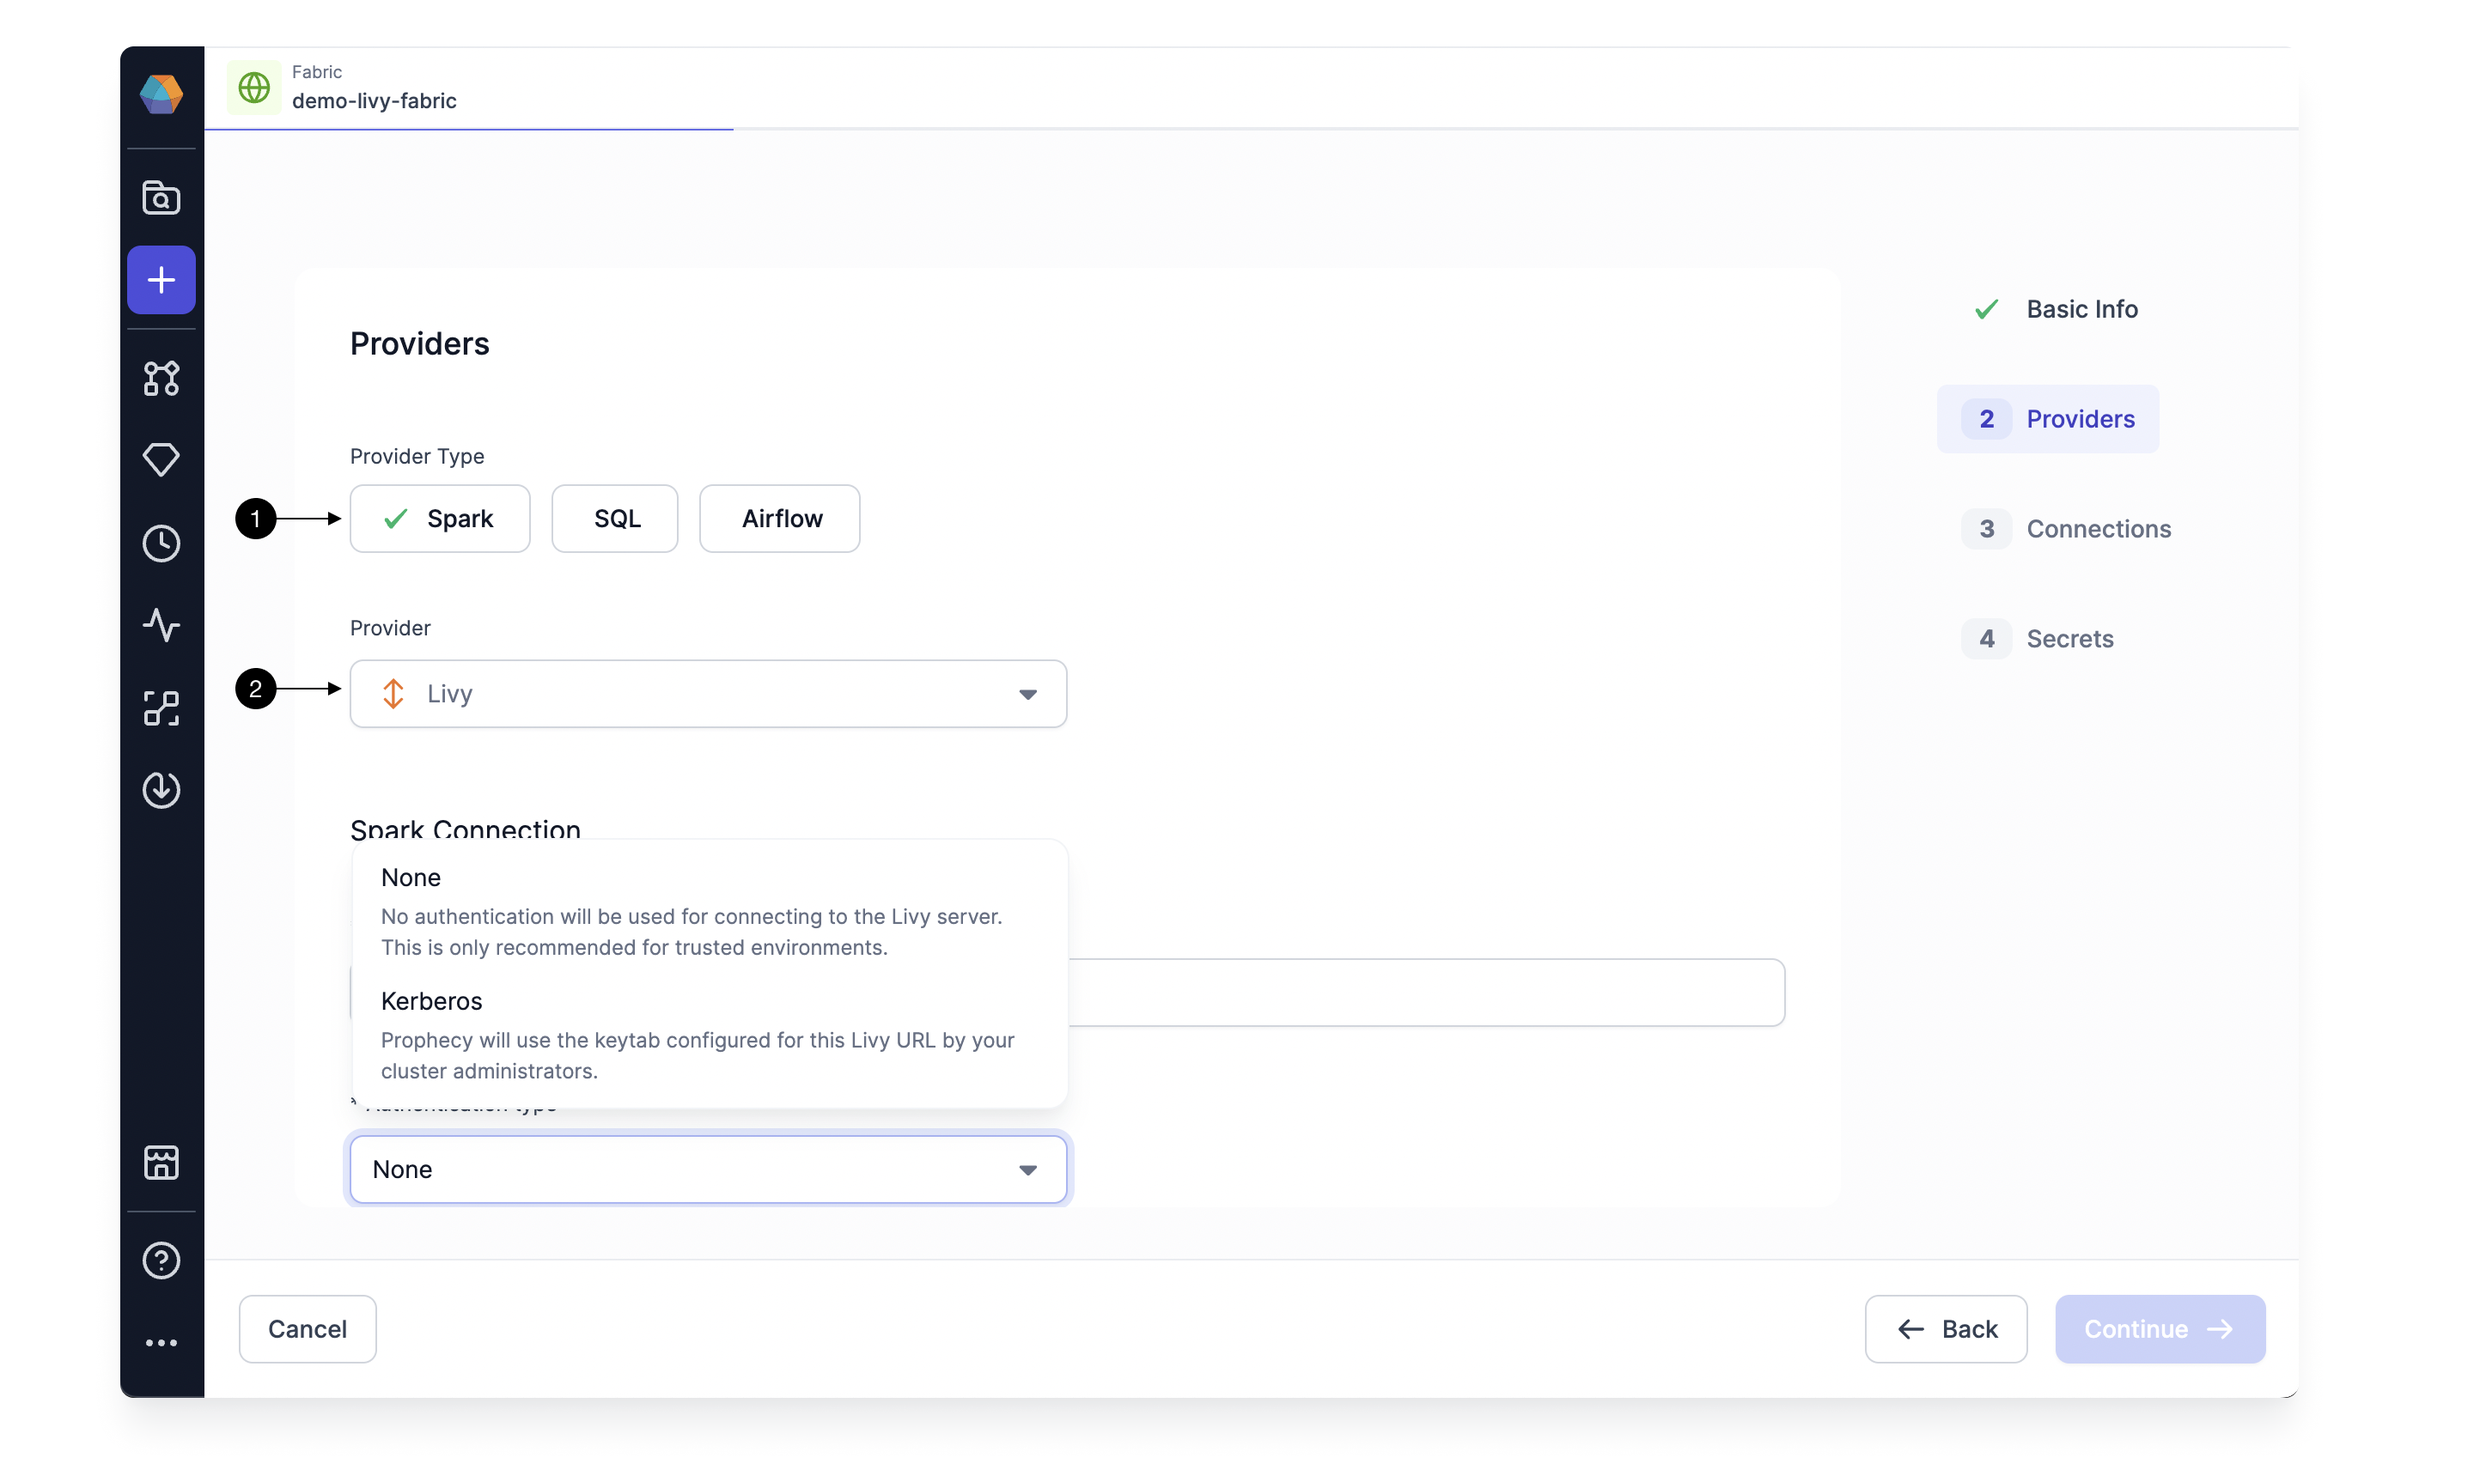
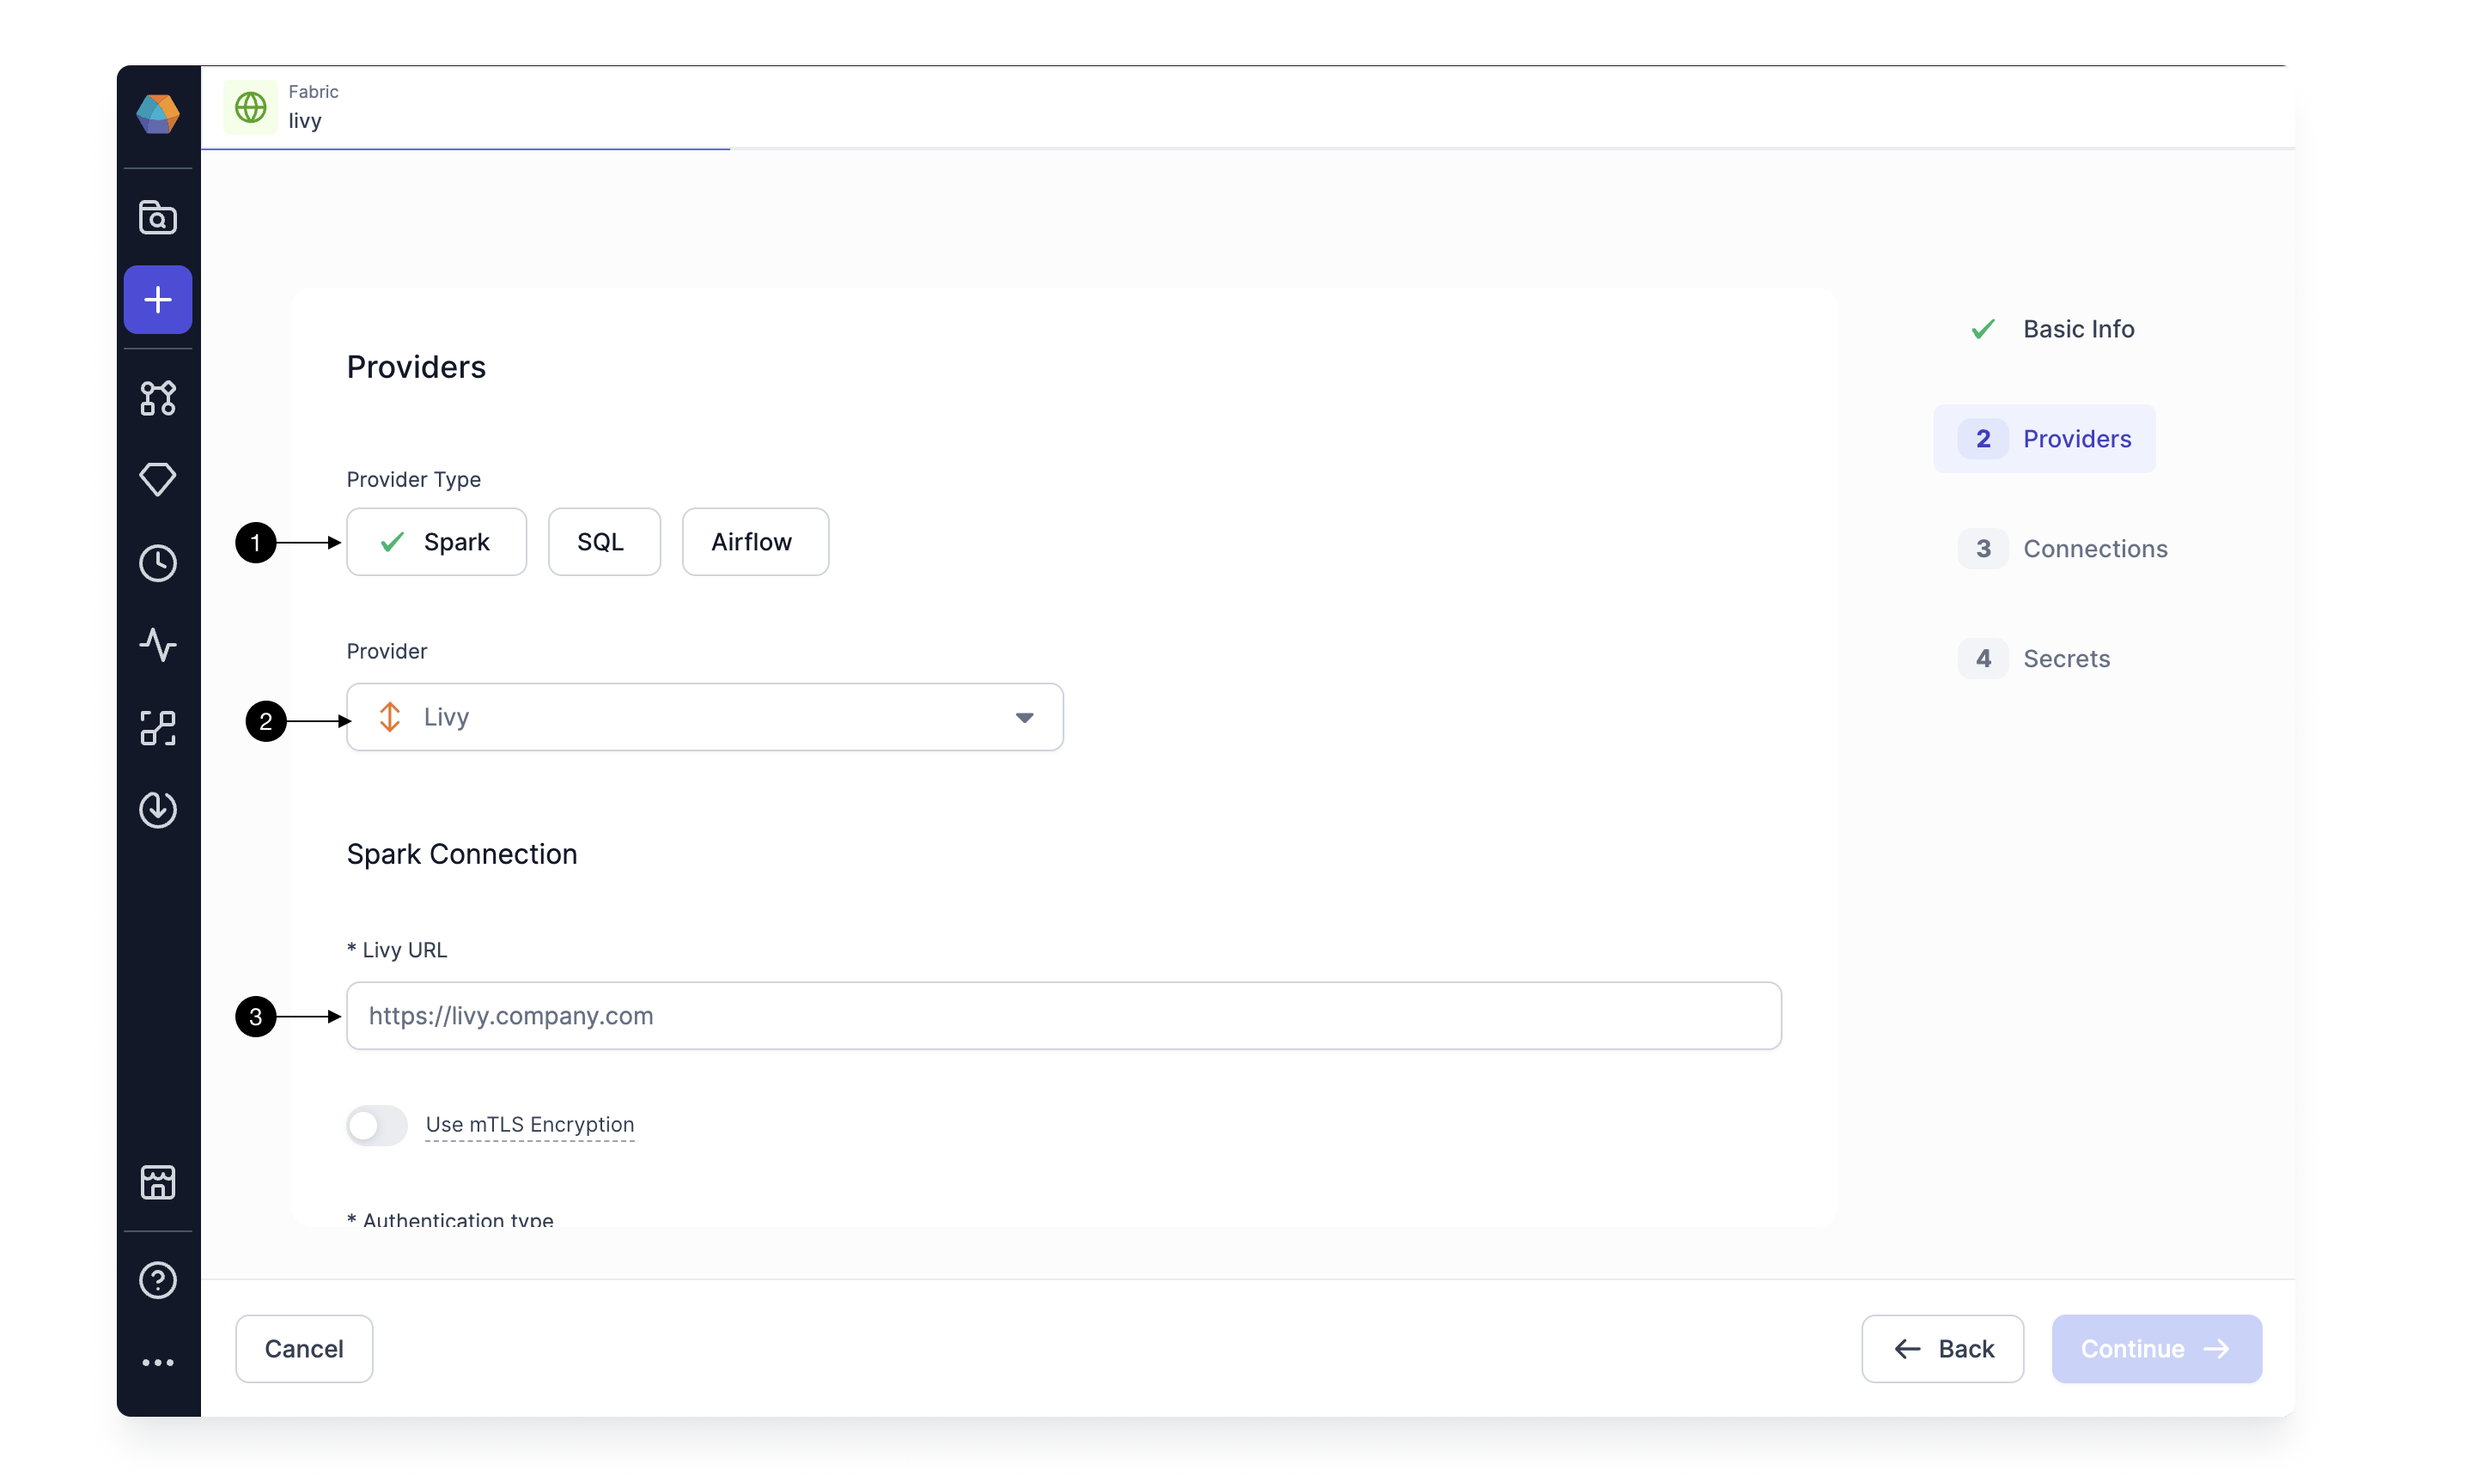
Updating livy Fabric auth for bearer token and mtls

diff --git a/docs/Spark/fabrics/livy.md b/docs/Spark/fabrics/livy.md
@@ -31,14 +31,25 @@ Once ready, click **(4) Continue**.
 ### Providers
 
 Since we're setting up a Fabric connected to Livy, choose **Spark** as the **(1) Provider Type** and **Livy** as the **(2) Provider**.
-To connect to Livy, you must provide the Livy URL and Authentication settings for your Livy Server.
-Prophecy supports two Authentication modes for Livy.
+To connect to Livy, you must provide the **(3)Livy URL** and authentication settings for your Livy Server.
 
 ![livy-provider](img/livy-provider-1.png)
 
+If your Livy is secured behind mTLS authentication, you can configure mTLS encryption in Prophecy. Enable the **(1)Use mTLS Encryption** option and provide the **Client Certificate** and **Client Key** required for mTLS.
+
+![livy-provider-mtls](img/livy-provider-mtls.png)
+
+Prophecy supports **three** Authentication modes for Livy.
+
 - **None** -
-  This is used for setups where Livy and Prophecy are on the same private network, or Prophecy can talk to Livy securely through IP whitelisting.
+  Use Authentication Mode None for setups where Livy and Prophecy are on the same private network or when Prophecy can securely communicate with Livy through IP whitelisting.
   You can create different Fabrics for different livy URLs in other teams to control who can access livy clusters through Prophecy.
+  ![livy-none-auth](img/livy-none-auth.png)
+
+- **Bearer Token** -
+  Prophecy authenticates with Livy using a pre-configured bearer token in this authentication. This mode is useful when you want to authenticate using a secure token-based system, making it more secure than no authentication for public environments. All team users would use the same token configured by a Team admin in **(2) Bearer Token** to authenticate to Livy.
+
+  ![livy-bearer-token](img/livy-bearer-token.png)
 
 - **Kerberos** -
   For Kerberos authentication, Prophecy authenticates with Livy via Kerberos as a service.
